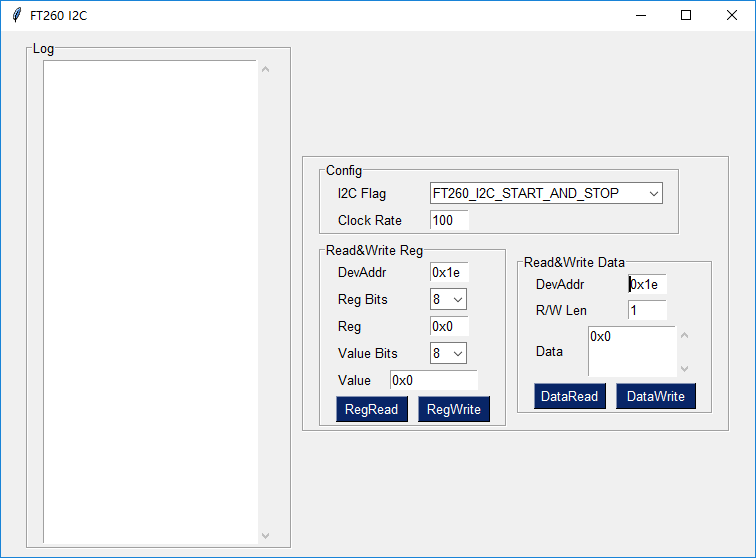
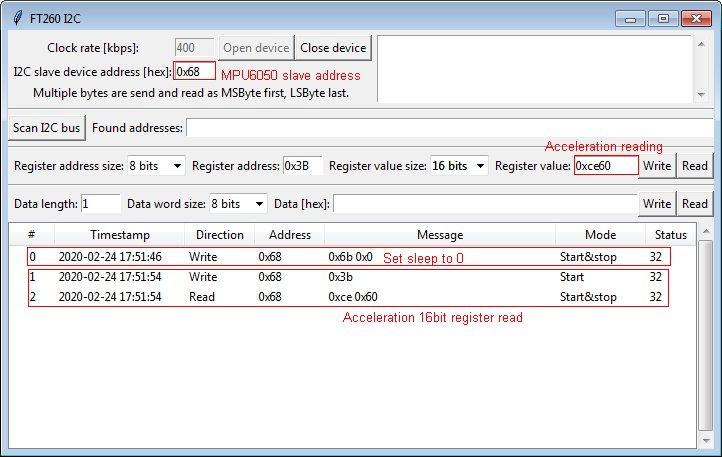
Updated readme with relevant screenshots and information

Changed region(s): [[0.0, 0.0, 1.0, 1.0]]

diff --git a/README.md b/README.md
@@ -38,6 +38,12 @@ The GUI is build with tkinter library.
 
 * `pip install tkinter`
 * `python ftI2cGui.py`
+
+## GUI example
+
+This is an example of GUI interface interacting with MPU6050 accelerometer/gyroscope sensor. MPU6050 is enabled
+by writing to 8bit control register. Then actual accelerometer reading can be loaded by reading 16bit register.
+
   ![ftI2cGui](img/ftI2cGui.png)
 
 ## Build standalone application
